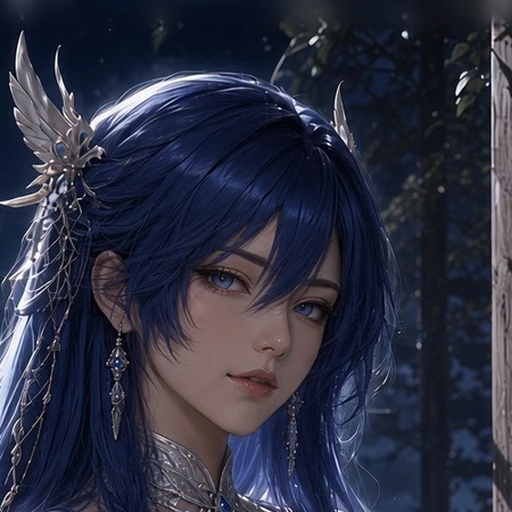
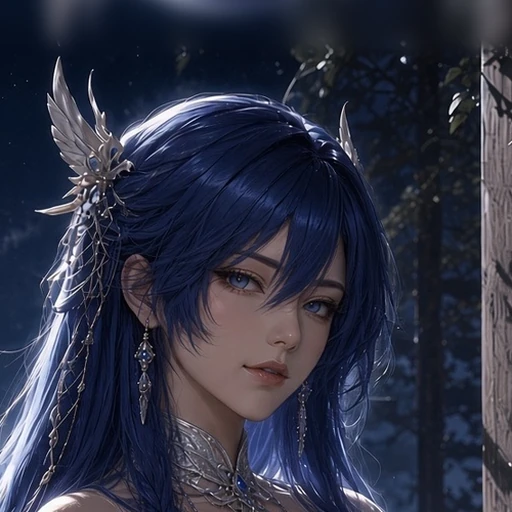
清冷剑仙棋子头像脸部水平居中
重裁 lanyi.webp（裁切中心 cx 585→572），并 bump 头像与 config 缓存。

diff --git a/js/config.js b/js/config.js
@@ -606,7 +606,7 @@
       { id: 'diandaoshousuan', name: '点到手酸', cat: '彩蛋', tier: 'egg', stat: 'tap', value: 0.03, bonus: '点击灵气 +3%', cond: '单日点击 1000 次' }
     ],
     HEROES: [
-      { id: 'lanyi', name: '清冷剑仙', quality: 'xian', avatar: 'assets/battle/avatars/lanyi.webp', avatarPos: '47% 17%', avatarScale: 2.6, img: 'assets/hero_v21_new_hd.jpg?v=1', poster: 'assets/hero_v21_new_poster.jpg?v=1' },
+      { id: 'lanyi', name: '清冷剑仙', quality: 'xian', avatar: 'assets/battle/avatars/lanyi.webp?v=2', avatarPos: '47% 17%', avatarScale: 2.6, img: 'assets/hero_v21_new_hd.jpg?v=1', poster: 'assets/hero_v21_new_poster.jpg?v=1' },
       { id: 'cloak', name: '魔灵光', quality: 'xian', avatar: 'assets/battle/avatars/cloak.webp', avatarPos: '55% 15%', avatarScale: 2.6, img: 'assets/hero_mlg_dawn_hd.jpg?v=1', poster: 'assets/hero_mlg_dawn_poster.jpg?v=1' },
       { id: 'saintess', name: '圣王女', quality: 'xian', avatar: 'assets/battle/avatars/saintess.webp', avatarPos: '48% 12%', avatarScale: 2.6, img: 'assets/hero_saintess_v4b_hd.jpg?v=1', poster: 'assets/hero_saintess_v4b_poster.jpg?v=1' },
       { id: 'miko', name: '灼樱巫女', quality: 'xian', avatar: 'assets/battle/avatars/miko.webp', avatarPos: '57% 14%', avatarScale: 2.6, img: 'assets/hero_miko_dawn_hd.jpg?v=2', poster: 'assets/hero_miko_dawn_poster.jpg?v=2' },

diff --git a/index.html b/index.html
@@ -556,7 +556,7 @@
   </div>
 
   <script src="js/no-zoom.js?v=22"></script>
-  <script src="js/config.js?v=47"></script>
+  <script src="js/config.js?v=48"></script>
   <script src="js/equip.js?v=22"></script>
   <script src="js/state.js?v=24"></script>
   <script src="js/titles.js?v=22"></script>
